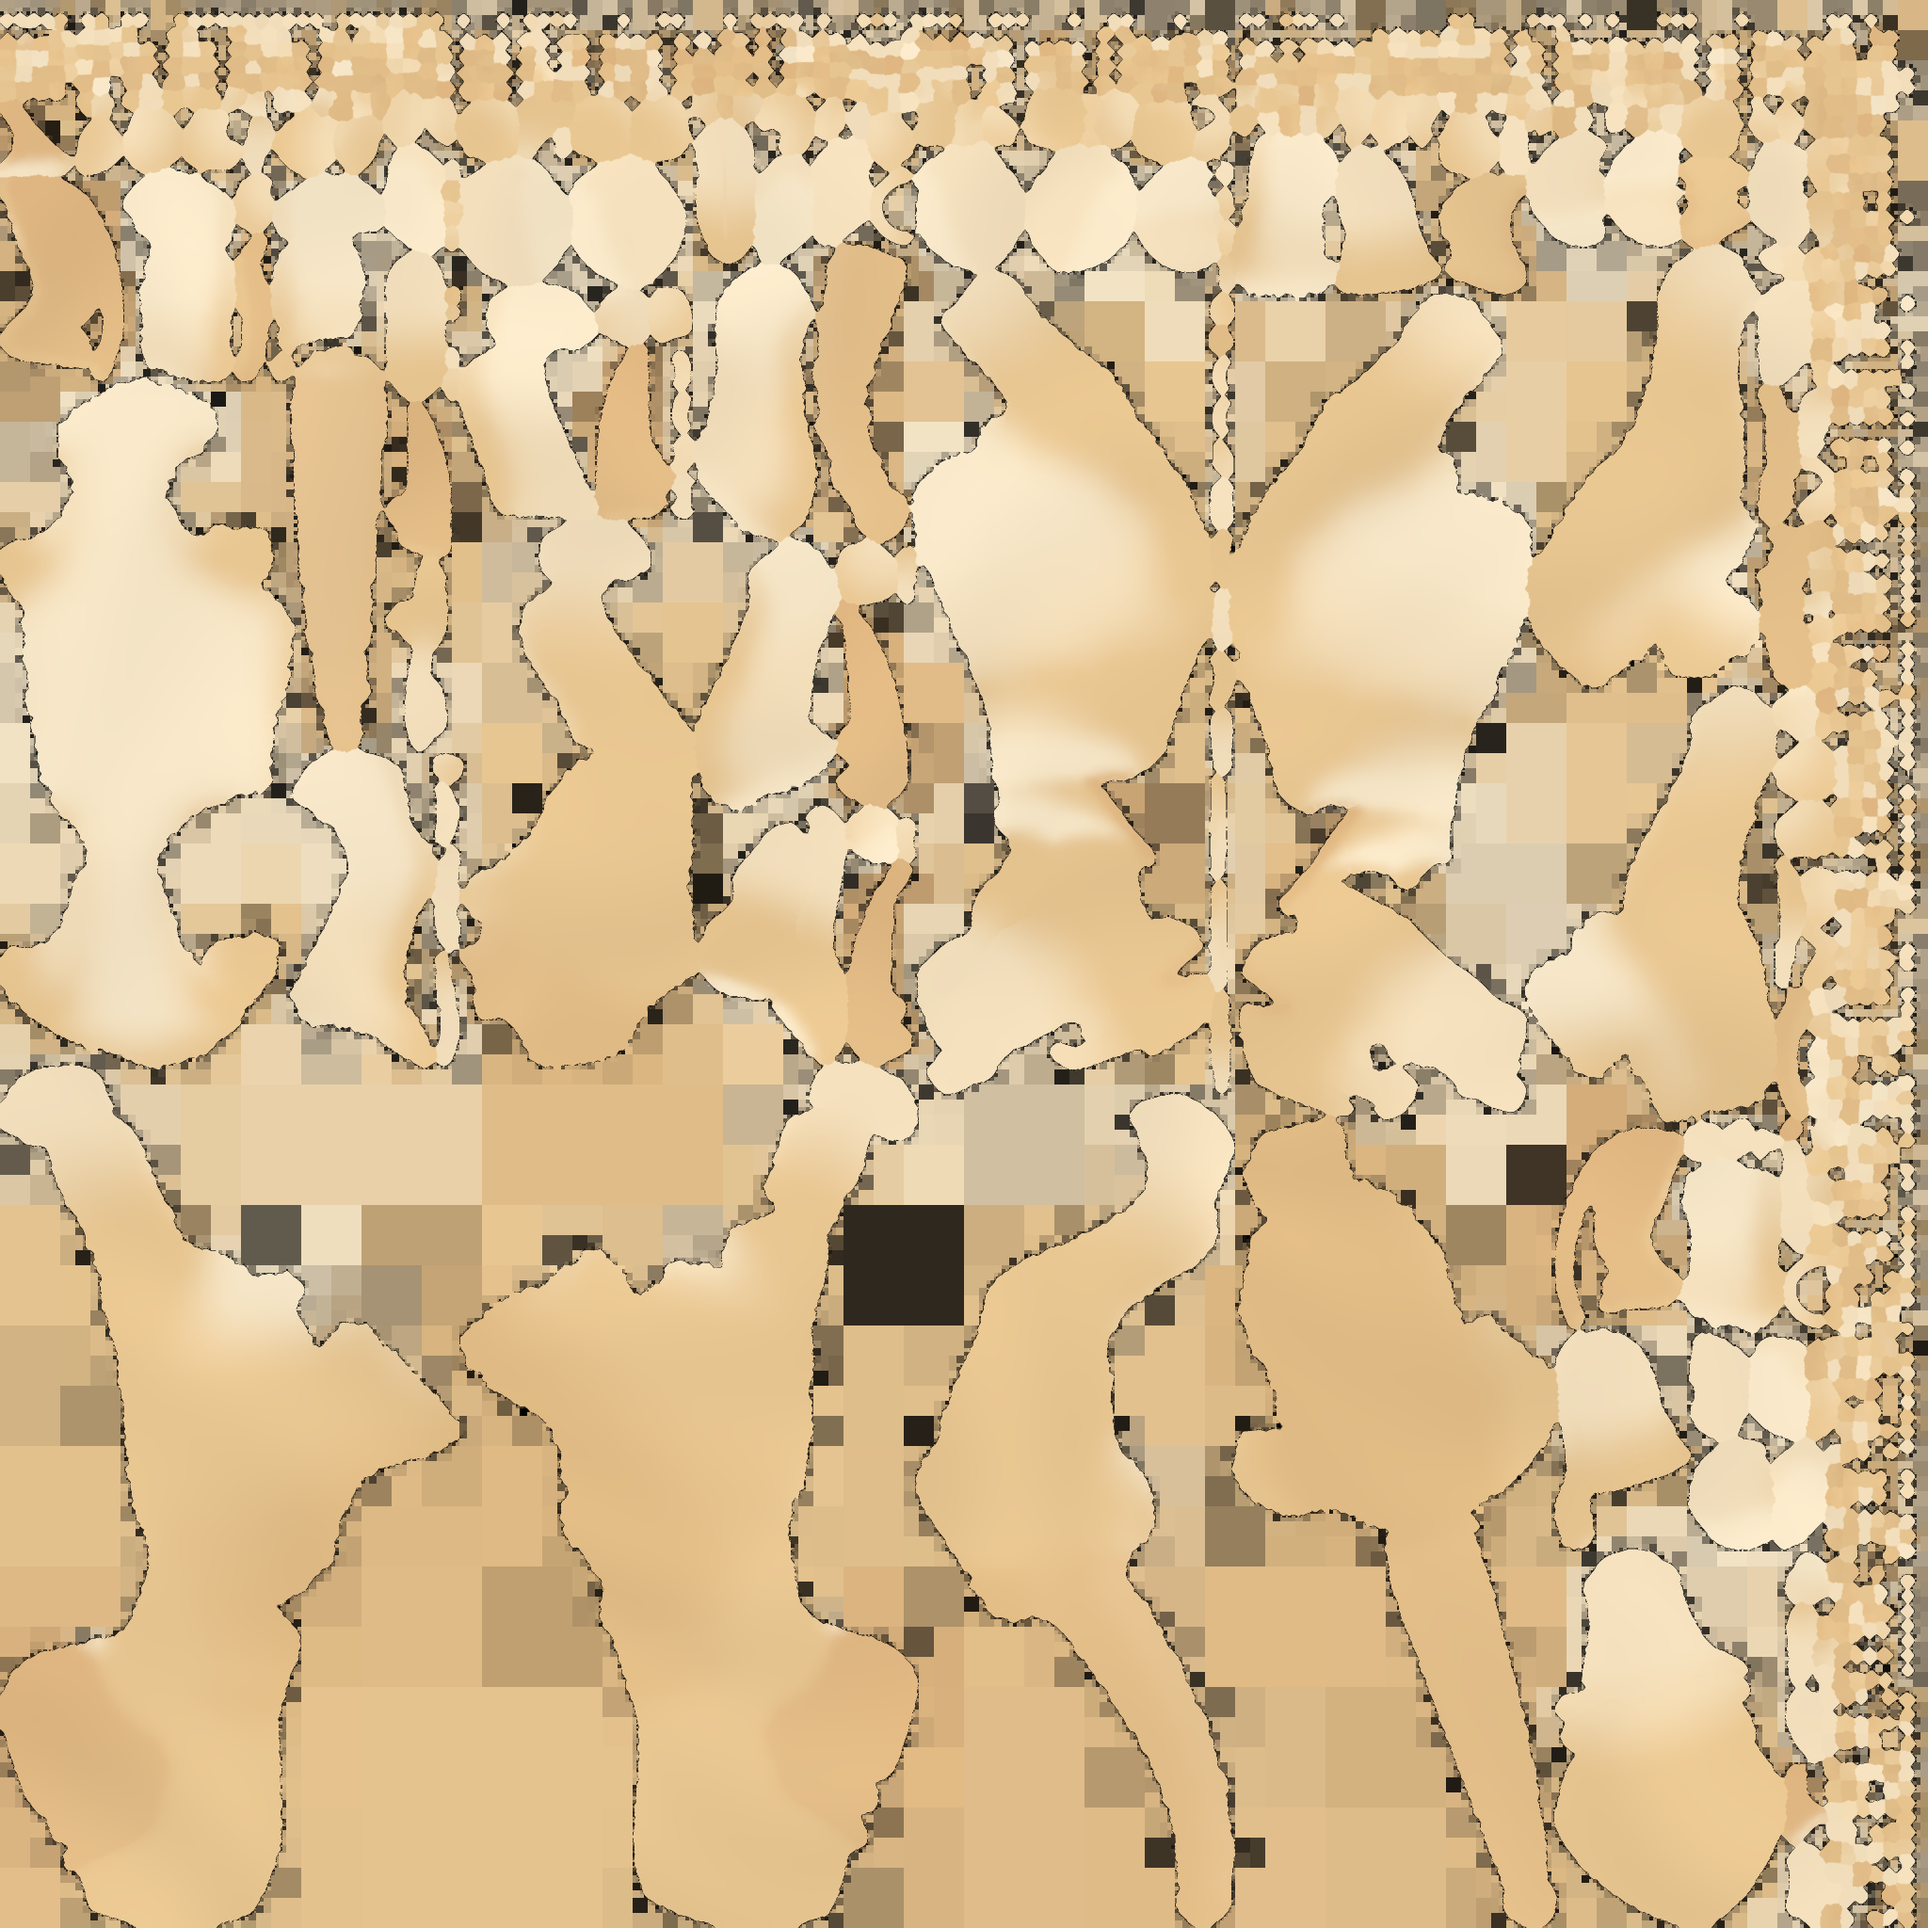
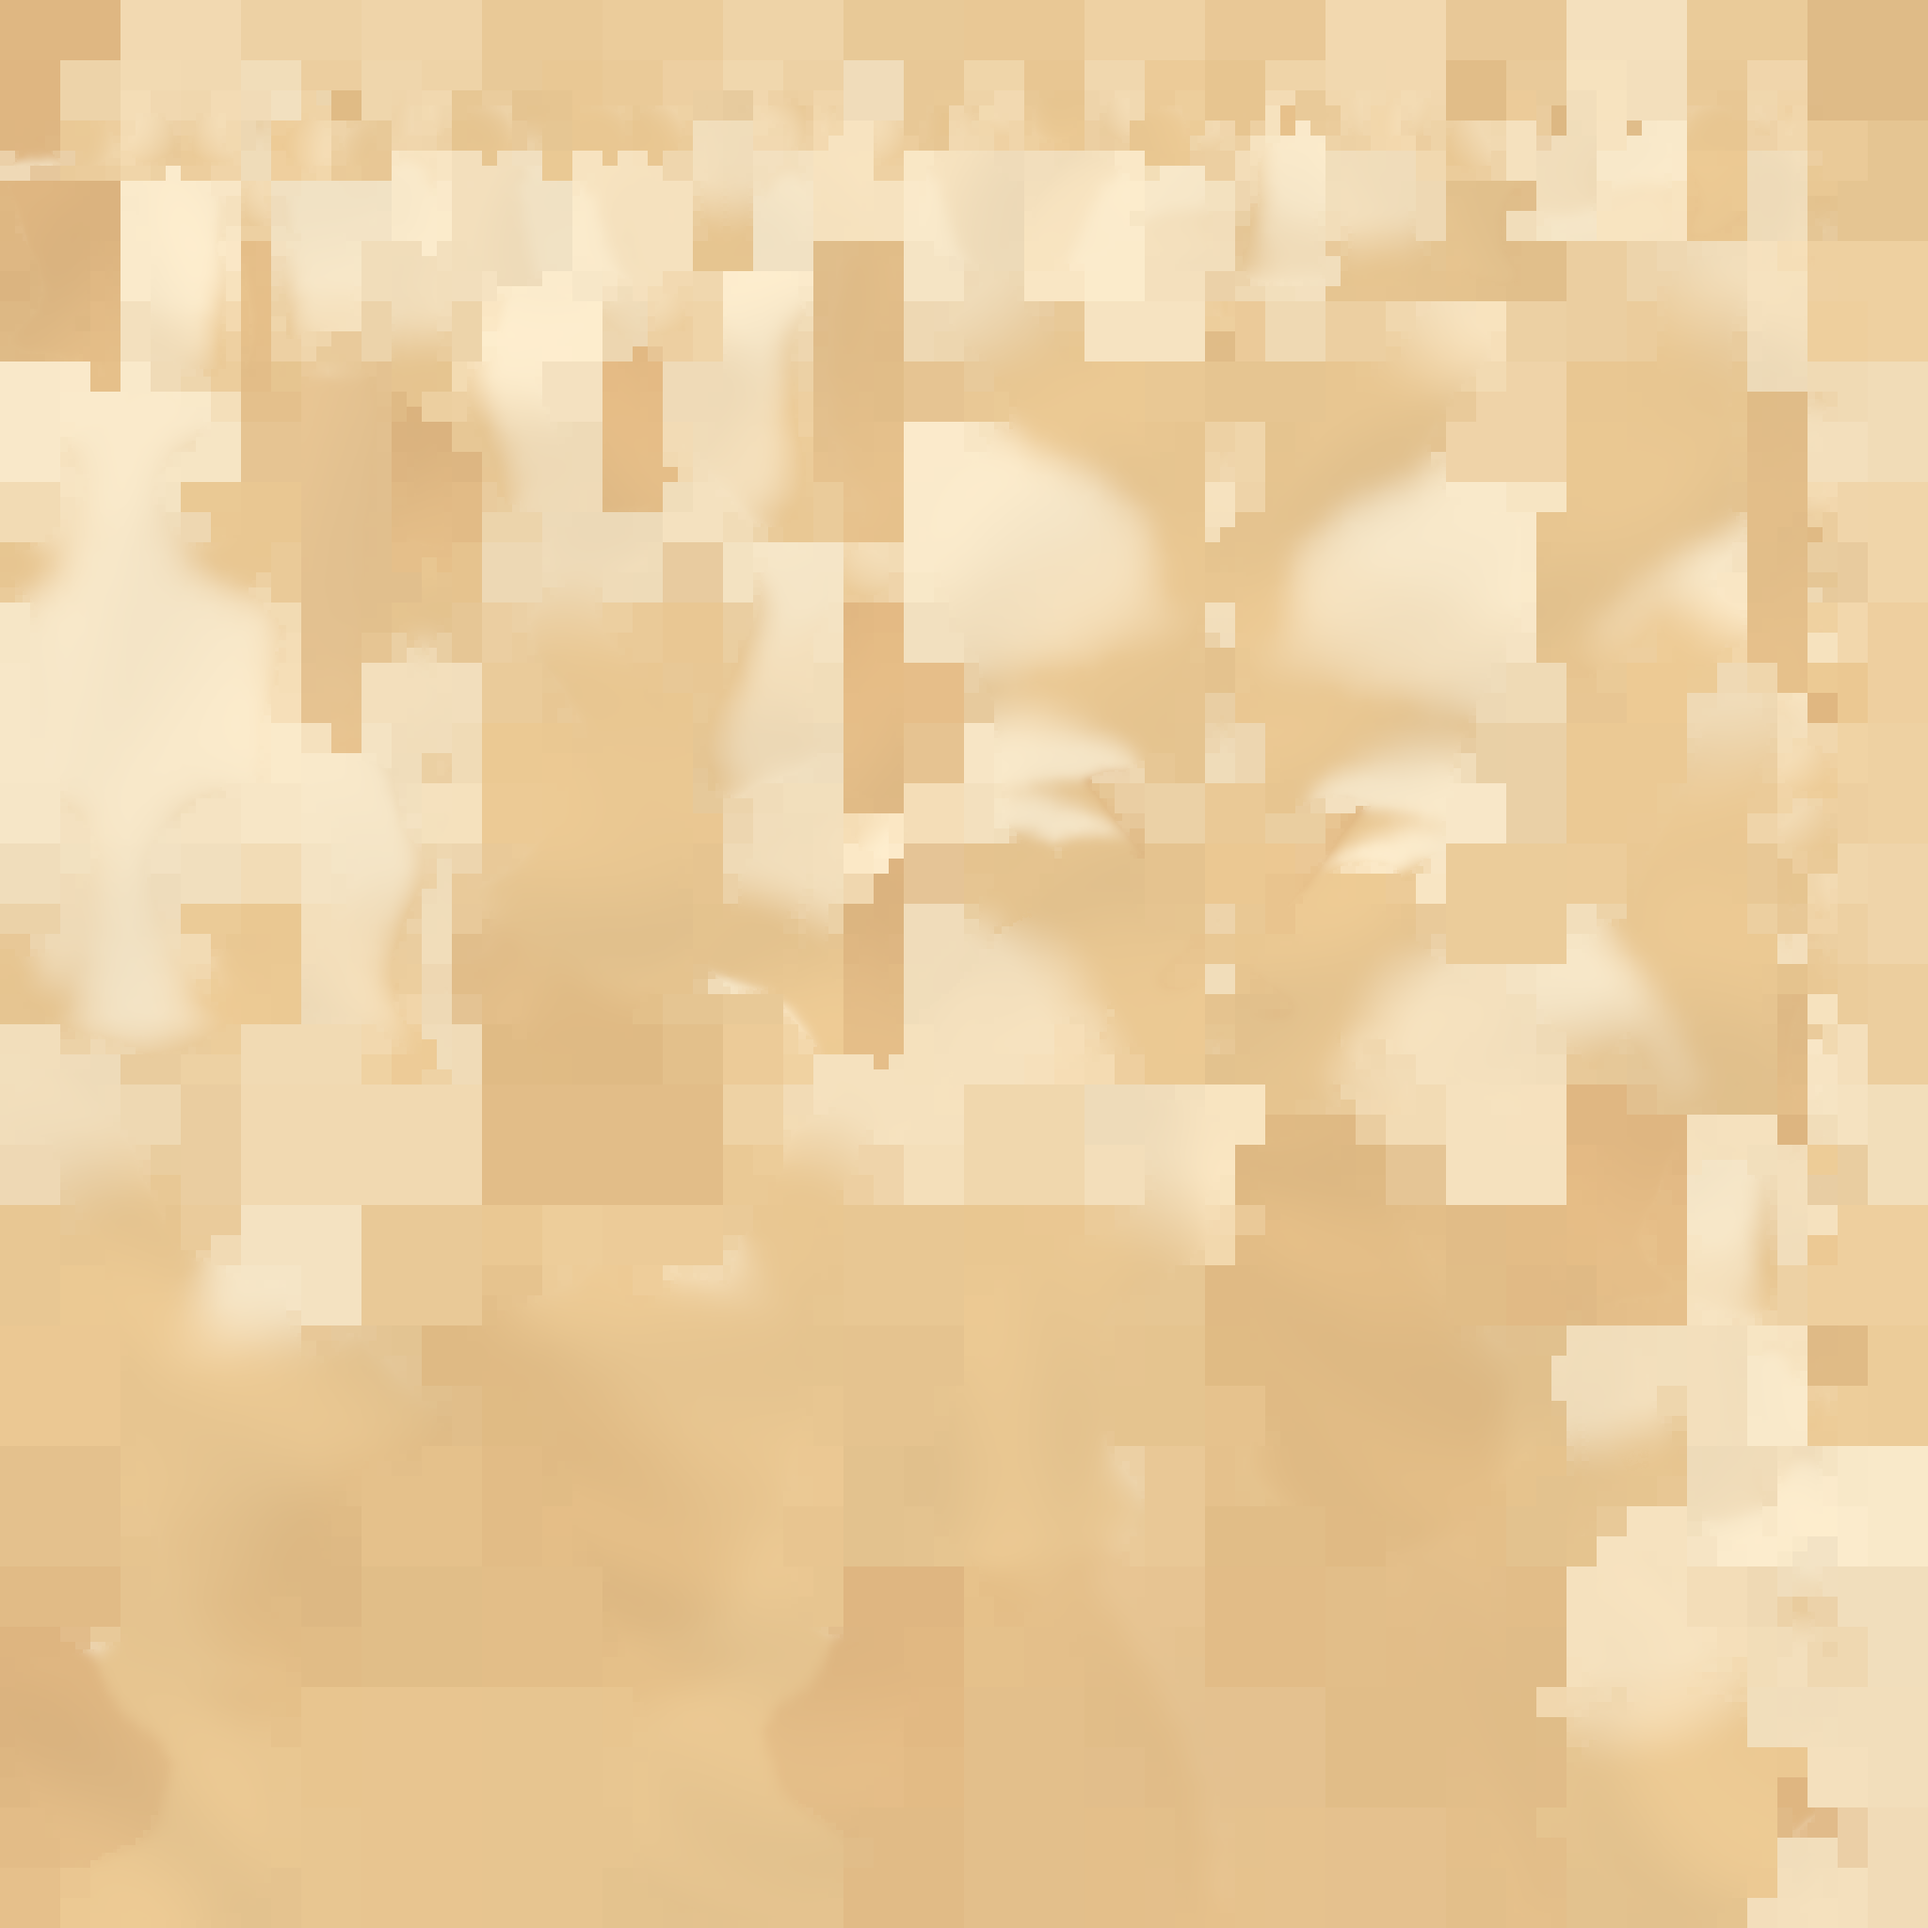
fix(dog): the coat colour map's gutters are filled from the islands' interiors, not from darkened edges (#1533)
Looking at the visual package, the coat showed dark streaks on the crown,
the muzzle and down one ear. DogCoatColor.png -- the groom's colour map
and DogSkin's albedo -- held 100,280 texels darker than any coat colour the
generator authors (luma < 60, down to near black) in blocks across its
gutters: the bake's 12-texel margin copied each island's edge texels
outward, some darkened where a texel straddles the edge, and the push-pull
fill counted every non-black texel as coat and averaged those into whole
coarse blocks. Mipmaps and bilinear taps at every UV seam then averaged
the blocks back into the fur and the skin.

build_dog.py now bakes with no margin, so the bake covers exactly the
islands, drops the two texels at each island's edge, and fills everything
else from what remains; it logs the darkest channel, which must be a coat
colour. Regenerated through the whole generator (Blender 5.2.2): 0 dark
texels, darkest channel 0.494. Dog.gltf, Dog.bin, Dog.rig.json and every
other texture came out byte-identical except DogNoseNormal.png (4 texels by
one level) and DogEyeball.bin (values within 6e-20 of zero), Blender's
threaded bake and normals; those keep their committed bytes.

A/B on the headless hero views, same binary: the face close-up brightens
by more than 12 levels on 38,144 pixels, darkens on 554, all along the
seams; mean luma 159.8 -> 161.4 (the wider views 0.45-0.98 mean |diff|).
The dark patch under the right ear is the ear's shadow and stays.

diff --git a/OloEditor/SandboxProject/Assets/Models/Dog/build_dog.py b/OloEditor/SandboxProject/Assets/Models/Dog/build_dog.py
@@ -2267,6 +2267,19 @@ def fill_empty_texels(rgb, mask):
     return np.where(mask[..., None], rgb, colour)
 
 
+def erode(mask, texels):
+    """`mask` with every texel within `texels` (4-neighbourhood steps) of an uncovered one cleared."""
+    m = mask.copy()
+    for _ in range(texels):
+        e = m.copy()
+        e[1:, :] &= m[:-1, :]
+        e[:-1, :] &= m[1:, :]
+        e[:, 1:] &= m[:, :-1]
+        e[:, :-1] &= m[:, 1:]
+        m = e
+    return m
+
+
 def bake_coat_map(ob, out_path, log=print):
     """Bake the per-vertex coat colour into a UV texture with Cycles (EMIT pass)."""
     import bpy
@@ -2317,18 +2330,28 @@ def bake_coat_map(ob, out_path, log=print):
     scene.render.engine = "CYCLES"
     scene.cycles.device = "CPU"
     scene.cycles.samples = 1
-    scene.render.bake.margin = 12
+    # NO MARGIN: what the bake covers is then exactly the islands, and the gutters are filled
+    # below from the islands' interiors. Blender's margin copied each island's edge texels
+    # outward -- some of them darkened where a texel straddles the island's edge -- and the fill
+    # then counted those as coat, so the gutters held blocks down to near black, which mipmaps
+    # and bilinear taps at every seam averaged back into the coat and the skin (#1533 review).
+    scene.render.bake.margin = 0
     for o in bpy.context.view_layer.objects:
         o.select_set(False)
     ob.select_set(True)
     bpy.context.view_layer.objects.active = ob
     t0 = time.time()
-    bpy.ops.object.bake(type="EMIT", margin=12, use_clear=True)
+    bpy.ops.object.bake(type="EMIT", margin=0, use_clear=True)
     log(f"[coat] baked {COLOR_MAP_SIZE}^2 colour map in {time.time() - t0:.1f}s")
     px = np.zeros(COLOR_MAP_SIZE * COLOR_MAP_SIZE * 4, dtype=np.float32)
     img.pixels.foreach_get(px)
     px = px.reshape(COLOR_MAP_SIZE, COLOR_MAP_SIZE, 4)
-    px[..., :3] = fill_empty_texels(px[..., :3], px[..., :3].sum(axis=2) > 1e-4)
+    # The islands less the two texels at their edges, which can straddle it; everything else is
+    # filled from what is left.
+    covered = erode(px[..., :3].sum(axis=2) > 1e-4, 2)
+    px[..., :3] = fill_empty_texels(px[..., :3], covered)
+    darkest = float(px[..., :3].min())
+    log(f"[coat] colour map: {int(covered.sum())} interior texels kept, darkest channel {darkest:.3f}")
     img.pixels.foreach_set(px.ravel())
     img.filepath_raw = out_path
     img.file_format = "PNG"
